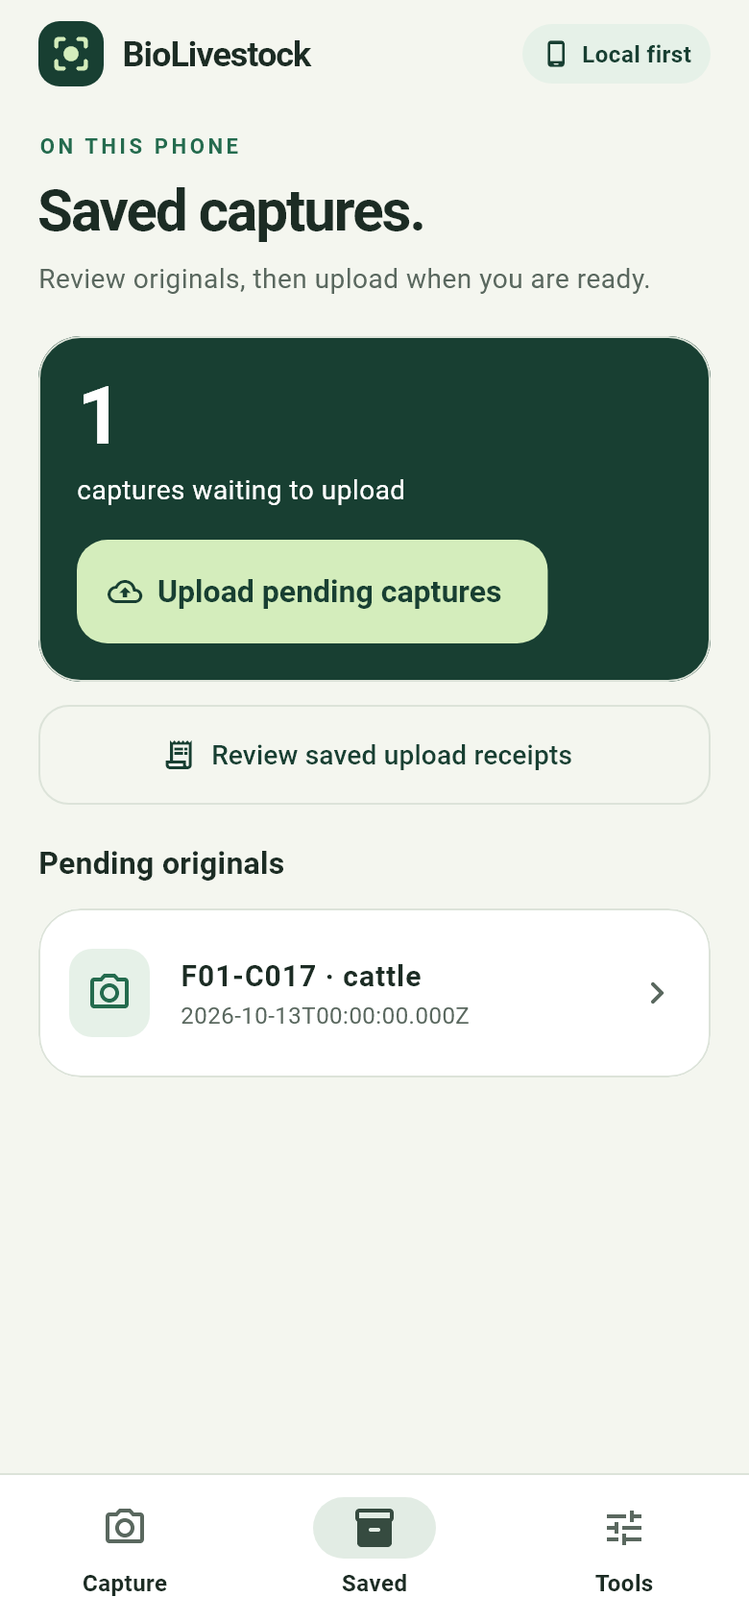
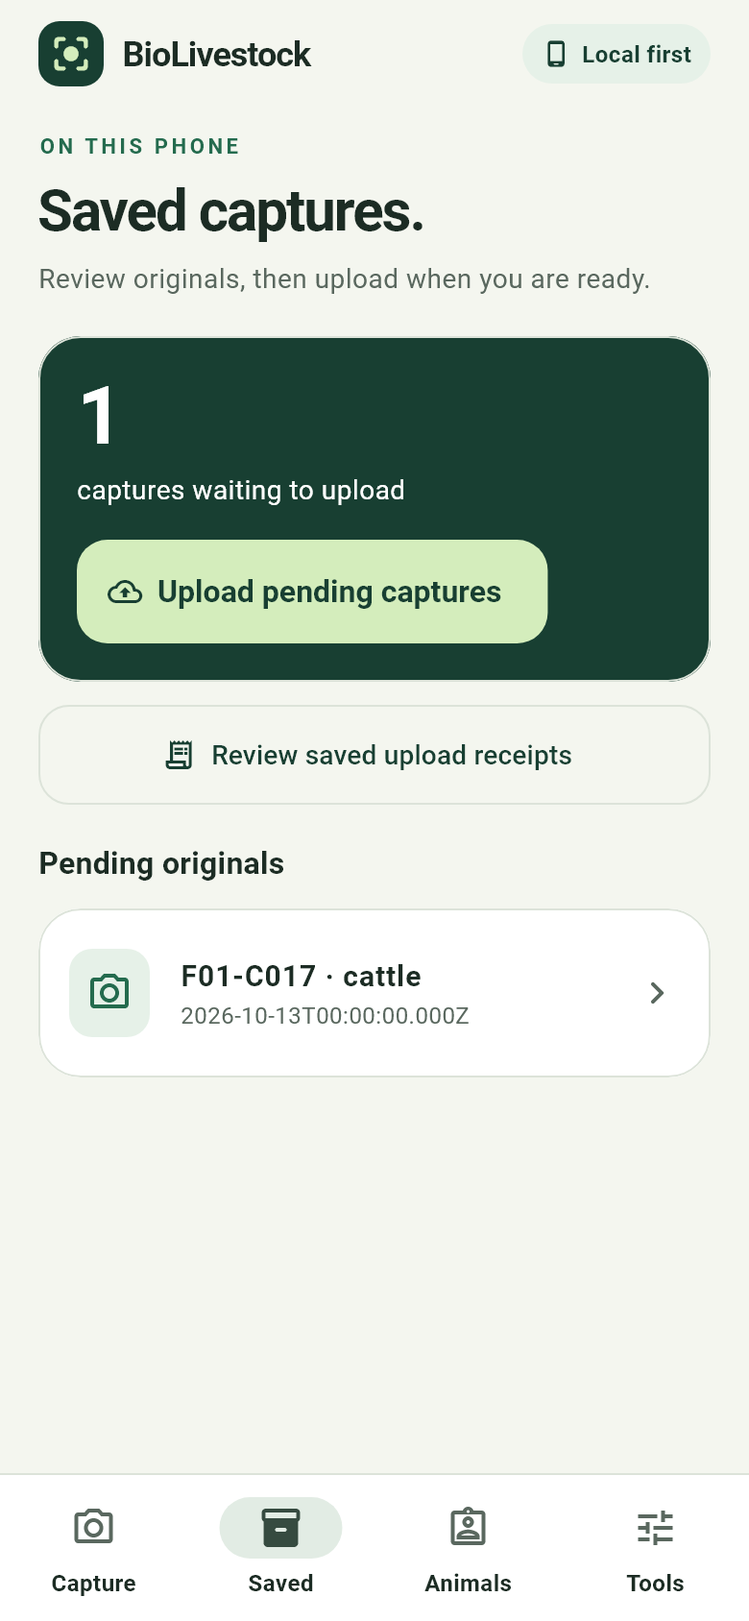
Document permanent IDs, field ownership reports and verified registry recovery

Changed region(s): [[0.2769, 0.9242, 0.6769, 0.9858], [0.0615, 0.9242, 0.2154, 0.9858], [0.8, 0.9242, 0.9231, 0.9858]]

diff --git a/docs/ANIMAL_REGISTRY.md b/docs/ANIMAL_REGISTRY.md
@@ -1,0 +1,128 @@
+# Permanent cattle IDs, owners and terminal reports
+
+## Field workflow
+
+1. Connect to the **same canonical backend**. In Capture choose **New animal ID**,
+   or Animals → **Register new animal**. Enter a stable owner reference
+   (e.g. `OWNER-001`) and name. Register each physical animal only once.
+2. The server allocates `M00000001`, `M00000002`, etc. Write the complete number
+   on its tag and ledger, then press **Use this ID**. The display uses tabular
+   digits for readability. These are internal IDs, not official government tags.
+3. Every later photo/session/device uses that same animal ID. Keep the permanent
+   external ear tag in the ledger too. Existing registered IDs still capture
+   offline; issuing a new number requires the backend. Never invent an M-number.
+4. Animals → look up the tag/ledger ID → **Change owner**. Enter the new owner's
+   reference/name and reason. ID, photos and previous owners remain unchanged.
+   A name edit for the same reference is not an ownership transfer.
+5. **Record death** for a deceased animal; **Record slaughter** for slaughter,
+   with a stable facility ID (e.g. `ABATTOIR-001`) and report notes. Confirm only
+   after checking the animal/tag. These terminal states remove it from the active
+   list. **Include archived animals** or direct lookup shows retained history.
+   There is no hard-delete or reactivation button, and its number is not reused.
+6. At an abattoir choose **Check animal / slaughter record**. Review lifecycle,
+   owner, reporting operator, reported/received time and facility. “Slaughter
+   report on file” means an authenticated report exists. It does **not** establish
+   that this physical animal matches the ID or that slaughter independently occurred.
+
+Owner references identify a person/farm in the operator's ledger; this MVP does
+not provide owner accounts, owner consent signatures or legal ownership verification.
+Only the original registering operator or an administrator can change the record.
+All authenticated operators can look up registry records; credentials are for trusted
+field staff, not publicly distributed. Financial `open`/`insured`/`collateral`
+status remains separate; death/slaughter does not automatically settle a loan/policy.
+
+## Reliability and compatibility
+
+- Per-species `numbering` lives in YAML: cattle `M`, eight digits; sheep `S`, eight
+  digits, **disabled**. No sheep model/crop logic was added. Freeze prefix/width
+  after real numbering starts. Numbers may have gaps; never reset the counter.
+- PostgreSQL allocates numbers atomically. Global numbered-ID uniqueness and
+  forward-only counter/retained-profile triggers guard against reuse. This guarantee
+  is for **one authoritative database**, not independently writable installations.
+  Never issue official numbers from a test/restore clone. Restoring stale data
+  after later IDs were issued requires reconciliation before writes resume.
+- Every mutation requires `Idempotency-Key`; the server stores its immutable
+  response. Same actor/key/body replays; a changed body/operation returns 409.
+  Mobile saves the original request before sending. Timeout/restart retries the
+  same key, timestamp, GPS and body; an issued ID stays visible until acknowledged.
+  Known 404/409/422 rejections stay in the journal and require correction/review.
+  Corrupt journals block new mutations and remain available for backup.
+- Additive Alembic `0005` creates `animal_number_counters`, `animal_profiles` and
+  `registry_receipts`. Legacy IDs/photos/financial fields are preserved, never
+  automatically renamed. Legacy records without a profile appear active with
+  owner “Not recorded”; the registering operator/admin may record their owner.
+  Numeric managed prefixes are reserved; uploads cannot create an unissued M-ID.
+- Archives retain photos and immutable actor/server time/reported time/GPS audit
+  events. GPS is nullable and operator/device supplied, not independent location
+  proof. Delayed uploads to an existing archived ID retain evidence without
+  reactivating it; the normal registry capture selector offers active records only.
+- Optional API `capture_id` links a matching, permitted scan and stored image hash
+  to a terminal report. The mobile report form does not yet attach that UUID;
+  it records facility/notes/time/GPS. No image-based slaughter verdict is produced.
+- Phone ZIP backups include registry requests, acknowledgements and partial writes;
+  protect them because owner names and report metadata are sensitive. Save a copy
+  outside the app. Desktop recovery preserves evidence; it does not auto-replay
+  mutations or import them into another authority.
+
+Unique numbers prevent number collisions, **not** two registrations of the same
+physical animal under different numbers. Continue the independent tag/roster checks.
+Biometric duplicate/identity validation still needs the real labeled dataset.
+
+## API and local rollout
+
+Bearer authentication is required for every route below. Mutating routes additionally
+require `Idempotency-Key` (16–128 ASCII letters/digits/underscores/hyphens).
+
+| Route under `/api/v1/registry` | Purpose |
+| --- | --- |
+| `POST /animals` | `{species, owner:{owner_id,name}}` → 201 permanent ID |
+| `GET /animals?species=cattle&lifecycle=active&limit=50&offset=0` | Bounded active list; also `deceased`, `slaughtered`, `all` |
+| `GET /animals/cattle/{id}` | Current projection, owner, lifecycle and terminal record |
+| `POST /animals/cattle/{id}/owner` | New owner, expected_version, timezone-aware observed_at, nullable GPS, reason |
+| `POST /animals/cattle/{id}/retirement` | Same observation fields + lifecycle; facility_id required for slaughter; optional capture_id |
+| `GET /animals/cattle/{id}/history?limit=50&offset=0` | Immutable events; mobile displays latest 50; API supports paging |
+| `GET /animals/cattle/{id}/slaughter-check` | Registry report only; biometric/independent verification explicitly false |
+
+Before using new numbering, back up the existing backend using
+[collection recovery instructions](COLLECTION_RELIABILITY.md). From `backend/`,
+`docker compose up --build -d` applies migration 0005 on startup. This task tested
+only the isolated stack; it did not deploy to the normal collection stack.
+Rebuild the app with the existing README backend/operator defines.
+
+## Verification — 2026-10-13
+
+171 backend/tooling, 48 research and 84 Flutter host tests passed; Ruff and Flutter
+analysis clean. Journal tests cover restart/lost responses, changed payload/scopes,
+rejection/corruption, mismatched acknowledgements, failed receipt writes and backup
+retention. UI tests cover ID acknowledgement/recovery, owner/slaughter validation,
+death retry/conflict cancellation, archives and 200% text on a narrow screen.
+Capture integration preserves an already saved original's ID. Real-font mock
+renders were visually inspected. Final Android debug APK built in 26.1 seconds,
[1 lines of base64/hex data omitted]
+no operator API token configured. Four widget cases also passed after final
+financial-label clarification. Both isolated Docker services are stopped; data retained.
+
+| Animal list | Issued ID | Archived report |
+| --- | --- | --- |
+| ![Synthetic registry](design/registry-list.png) | ![Permanent ID acknowledgement](design/registry-issued.png) | ![Synthetic report, not independent proof](design/registry-slaughter.png) |
+
+The isolated `biolivestock-reliability` PostgreSQL stack on 18001 passed eight
+parallel unique allocations, four concurrent replays returning one ID, a two-way
+owner-version race (200/409), terminal replay, retained archived owner/ID, trigger
+guards, authentication and disabled-sheep checks. A numbered synthetic JPEG passed
+QC and persisted as `pending_model`; its stored hash is attached to the terminal
+report. Source/config hashes matched the running container.
+
+Backup `data/backups/registry-20261013` restored to a new database
+`biolivestock_restore_registry_20261013` and `data/restores/registry-20261013`.
+All counter/profile/receipt/animal/audit rows matched the source, not just counts.
+The clone includes 20 profiles, 24 registry receipts, 27 animals, 35 audit events,
+nine captures and eight upload receipts; reconciliation is healthy. Two runs left
+synthetic fixtures: the first probe stopped on a correctly rejected SQL trigger
+because its harness initially treated that expected rejection as a failure.
+No real animal data was modified. Evidence is retained under
+`data/reliability/evidence/registry*.json` and ignored by Git.
+
+Physical Android/iOS operation remains unverified until a repaired/replacement
+phone is available. All animal identity, model, slaughter authenticity and
+real-world accuracy claims remain gated on real reviewed data.

diff --git a/PROGRESS.md b/PROGRESS.md
@@ -4,7 +4,7 @@ Last live repository inspection: 2026-10-13, Asia/Tashkent. Project root: D:\Cod
 
 ## Current stop point
 
-**Permanent numbering/ownership/lifecycle complete (2026-10-13, latest request).** New cattle register once with server-issued M00000001-style IDs, readable tabular digits and owner reference/name. Mobile now has Capture/Saved/Animals/Tools; Animals supports owner transfers, death/slaughter reports, active/archive lists and abattoir ID/report/history lookup. Clarification: Sardorbek meant death, not sale; no sale terminal state. Death/slaughter archives rather than physically deletes; IDs, owners at reporting, scans and immutable history remain. Additive migration 0005 preserves legacy IDs/data. New IDs require one canonical backend; existing registered IDs still collect offline. Entry clean at 9c745b1. Backend local milestone b9a34a4; mobile/docs milestone follows. No push or normal-stack deployment.
+**Permanent numbering/ownership/lifecycle complete (2026-10-13, latest request).** New cattle register once with server-issued M00000001-style IDs, readable tabular digits and owner reference/name. Mobile now has Capture/Saved/Animals/Tools; Animals supports owner transfers, death/slaughter reports, active/archive lists and abattoir ID/report/history lookup. Clarification: Sardorbek meant death, not sale; no sale terminal state. Death/slaughter archives rather than physically deletes; IDs, owners at reporting, scans and immutable history remain. Additive migration 0005 preserves legacy IDs/data. New IDs require one canonical backend; existing registered IDs still collect offline. Entry clean at 9c745b1. Local code milestones: b9a34a4 (backend) and 9f577a4 (mobile/recovery); final documentation commit contains this update. No push or normal-stack deployment.
 
 **Key decisions & config:** cattle numbering M/eight digits in species_configs/cattle.yaml, sheep S/eight digits present but disabled. No sheep models/branches added. Never reset counters/change live numbering format or issue real IDs from independently writable test/restore clones. Stale backup restores after later issued IDs need reconciliation before writes. Financial open/insured/collateral status remains separate (also labeled Financial in UI); death/slaughter does not automatically settle it. Original registrar/admin controls owner/terminal changes; owner references are ledger identities, not accounts, consent/legal ownership proof. Server and mobile retain replay keys/immutable payloads; acknowledgement loss/restart cannot silently allocate another ID. Pending/corrupt/rejected journals remain backed up; new number remains visible until acknowledged. Full owner/time/GPS/report metadata is sensitive; protect backup copies. New numbering prevents collisions, not multiple IDs for the same physical animal; independent tag/session checks remain necessary.
 
@@ -17,6 +17,43 @@ Last live repository inspection: 2026-10-13, Asia/Tashkent. Project root: D:\Cod
 **Mobile directly verified:** full 84 Flutter host tests passed, plus four final real-font widget cases after clarifying Financial status; analyzer clean. Nine new journal cases cover lost reply/restart, explicit ID acknowledgement, receipt-write failure, changed payload, backend/operator scopes, known rejection, malformed acknowledgement, corruption and backup inclusion. Two HTTP contract tests and four registry widget scenarios cover issuance/recovery, owner/slaughter validation, death retry and stale-version cancellation, archived controls and 320x720 at 200% text. Integrated Capture/Animals navigation cannot relabel an open original and returns to it with visible feedback. Actual native widgets rendered with SDK fonts and mock boundaries, visually inspected; previews docs/design/registry-*.png plus refreshed capture/saved/tools. New ID and registry dialogs have no gallery/photo source substitution. Full totals: 171 backend + 48 research + 84 Flutter = 303 distinct tests. Backend suite has dependency deprecation and inaccessible pytest-cache warnings only; no failed tests. Final Android debug APK built in 26.1 seconds (preceding build 45.2 seconds), SHA-256 998d45179dada676d1dc1eca2313a38ae25cc108654899fb0ee58e25e488191e. No API token configured in this build. SDK C:\src\flutter (3.47.5), kotlin.incremental=false unchanged.
 
 **Exact next action / external blockers:** before new real numbering, back up the normal backend, review then rebuild from backend/ with docker compose up --build -d (startup applies 0005). Rebuild/run the operator-configured app using README. On a repaired/replacement phone verify native camera/GPS/keyboard and registry creation/acknowledgement, offline restart/retry, owner changes, death/slaughter archive lookup and ZIP export/share on synthetic test records. Real phone remains unavailable/unverified; this is external, not a known code blocker. Real cattle dataset/checkpoint/calibration still gates biometric matching, actual slaughter/identity authenticity, liveness and weight accuracy. Guide now maps server IDs to separate farm cohort slots; preserve all existing labels. No routine architectural question is pending. Requested code work finished; no automatic push or new model work.
+
+
+## Git evidence — registry code milestones, before final documentation commit
+
+Live git inspection: 2026-10-13. HEAD 9f577a4; only the requested docs/previews remain uncommitted before this final documentation commit. No tracked secrets, datasets, weights or builds. Cached origin/main remote-only/local-only counts 0/10; no fresh remote fetch or push in this task. The final documentation commit follows this snapshot; inspect live status/log next session.
+
+Real git log --oneline -20 output:
+
+```text
+9f577a4 Add mobile animal registry, durable ID acknowledgement and archive workflows
+b9a34a4 Add permanent species-configured animal numbers and audited ownership lifecycle
+9c745b1 Document mobile design references, visual previews and verification
+7b86d1c Redesign field capture, saved originals and backup tools for mobile
+5c16b0c Refresh persistent progress with final runtime and git evidence
+1a511e4 Document verified collection enhancements and field recovery limits
+b6c4e0b Pin tested backend containers, CPU dependencies and Flutter SDK
+001b9a2 Respect Windows path casing when exporting phone evidence
+183341b Export verified phone evidence and scale restart-safe capture queues
+fff4799 Reject exact decoded-pixel duplicates in reviewed research datasets
+eaaf857 Clarify published repair milestone status
+ad5f754 Record authorized GitHub publication of audit repairs
+b5da129 Record verified audit repairs and PostgreSQL recovery proof
+0ba8dd7 Measure mobile exposure before resizing and share clipping regression fixtures
+de5e76d Isolate corrupt offline journals and validate capture labels before saving
+8c722c2 Reject invalid contour geometry, truncated research pixels and unsafe UTC times
+4ac39d8 Verify every restored image and research file against backup hashes
+d3704e5 Preserve capture evidence across uncertain database commits
+27c1e85 Document code audit findings and reproducible repair plan
+d99c2f1 Persist camera captures offline with restart-safe upload retries
+```
+
+Real git remote -v output:
+
+```text
+origin	https://github.com/sabdur4hmonov/animal.id.creator.git (fetch)
+origin	https://github.com/sabdur4hmonov/animal.id.creator.git (push)
+```
 
 ## Previous mobile design milestone
 

diff --git a/docs/DATA_COLLECTION_GUIDE.md b/docs/DATA_COLLECTION_GUIDE.md
@@ -1,6 +1,6 @@
 # Farm checklist — cattle identity pilot
 
-**Sardorbek · current code/config: 2026-10-08.** Collect cattle only. No muzzle checkpoint exists: accepted originals are `pending_model`, not verified nose crops. This protocol's **100-animal floor** supports a first pilot; it cannot establish rare-error reliability. Required sample size depends on the error target ([NIST](https://www.nist.gov/publications/using-chebyshevs-inequality-determine-sample-size-biometric-evaluation-fingerprint-data)).
+**Sardorbek · current code/config: 2026-10-13.** Collect cattle only. No muzzle checkpoint exists: accepted originals are `pending_model`, not verified nose crops. This protocol's **100-animal floor** supports a first pilot; it cannot establish rare-error reliability. Required sample size depends on the error target ([NIST](https://www.nist.gov/publications/using-chebyshevs-inequality-determine-sample-size-biometric-evaluation-fingerprint-data)).
 
 ## 1. Before travelling
 
@@ -11,9 +11,15 @@
 
 ## 2. Fixed cohort and capture recipe
 
-Use `F01-C001`…`F01-C050` and `F02-C001`…`F02-C050` (ASCII, no spaces). Assign numbers from the shuffled roster, not by breed/age.
+For new cattle, use the canonical backend's **Register new animal** once per animal,
+record its issued `M00000001` style ID on the tag/ledger and press **Use this ID**.
+Never invent or reissue an M-number. Keep farm cohort labels `F01-C001`…`F01-C050`
+and `F02-C001`…`F02-C050` in a separate `cohort_slot` ledger column; the table below
+uses those slots, not allocated number ranges. Shuffle slots independently of
+breed/age, then map each slot to its permanent server `animal_id`. Existing legacy
+IDs stay unchanged. Do not create another ID for a later visit or owner change.
 
-| IDs at **each** farm | Research split | Purpose |
+| Cohort slots at **each** farm | Research split | Purpose |
 |---|---|---|
 | C001–C020 | train | 40 animals total; never validation/test |
 | C021–C030 | validation | 20 enrolled animals total |
@@ -30,7 +36,7 @@ Use `F01-C001`…`F01-C050` and `F02-C001`…`F02-C050` (ASCII, no spaces). Assi
 
 Session ID = `F01-YYYYMMDD-V1` (then actual dates with V2/V3); F02 uses its own prefix. Each is a separate visit/day. Lighting changes and consecutive shots **do not** create independent sessions.
 
-- [ ] Before **each** visit's muzzle shots, read the permanent tag with the handler. Use the phone's ordinary camera for tag + side-view references; do not upload/count these as muzzle captures. In `roster.csv` record `animal_id, permanent_tag, identity_verified_by, verification_time, reference_filename`; V1/V2/V3 must agree. Conflicting/unreadable/replaced tag → `identity_uncertain`; exclude until independently resolved.
+- [ ] Before **each** visit's muzzle shots, read the permanent tag with the handler. Use the phone's ordinary camera for tag + side-view references; do not upload/count these as muzzle captures. In `roster.csv` record `animal_id, cohort_slot, permanent_tag, identity_verified_by, verification_time, reference_filename`; V1/V2/V3 must agree. Conflicting/unreadable/replaced tag → `identity_uncertain`; exclude until independently resolved.
 - [ ] Per animal: breed, sex, birth date/estimated age, coat/markings, health/nose damage/soiling, owner/farm code and permission reference. Record unknown rather than guessing. If available, add actual scale kg/time/device and tape girth/straight length in cm; muzzle photos alone cannot establish weight.
 - [ ] In `scans.csv`, one row/photo: `animal_id, species=cattle, session_id, farm_id, camera_id, shot_no, view(front/left15/right15), distance_cm, timestamp_with_timezone, operator_id, gps_latitude, gps_longitude, lighting, nose_condition, request_key, capture_uuid, server_file_path, upload_result`. Keep UUID/path blank until upload; keep the request key unchanged. Camera e.g. `PHONE-01`; operator matches its key. Time: `2026-10-08T09:15:00+05:00`; blank GPS means unavailable, never invented `0,0`.
 
@@ -38,16 +44,16 @@ The API accepts animal ID, species, timezone-aware timestamp, authenticated oper
 
 ```text
 Server originals (leave names/files unchanged):
-data/cattle/F01-C021/<UTC-date>/<capture-uuid>_original.jpg
+data/cattle/M00000021/<UTC-date>/<capture-uuid>_original.jpg
 
 Separate research copies after manual nose review/cropping:
-data/research/crops/cattle/F01-C021/F01-20261008-V1/01-front.jpg
+data/research/crops/cattle/M00000021/F01-20261008-V1/01-front.jpg
 
 Ledger + identity references (outside crops/):
 data/research/field/roster.csv
 data/research/field/scans.csv
-data/research/field/references/F01-C021/F01-20261008-V1/tag.jpg
-data/research/field/references/F01-C021/F01-20261008-V1/body.jpg
+data/research/field/references/M00000021/F01-20261008-V1/tag.jpg
+data/research/field/references/M00000021/F01-20261008-V1/body.jpg
 ```
 
 Research shot names: `01-front.jpg`, `02-front.jpg`, `03-left15.jpg`, `04-left15.jpg`, `05-right15.jpg`, `06-right15.jpg` (the animal's left/right). UTC date may differ from local date; session comes from the ledger. Never rename server evidence. Back up ledger, originals and database before leaving; verify 6 saved UUIDs per animal/visit.
@@ -68,4 +74,4 @@ Research shot names: `01-front.jpg`, `02-front.jpg`, `03-left15.jpg`, `04-left15
 
 ## 5. Sheep — later, not this visit
 
-- [ ] Keep sheep disabled. Later use separate IDs (`F01-S001`), `species=sheep`, the same visit/ledger scheme and separate manifests. Smaller/wool-obscured muzzles need fresh framing/QC calibration and a sheep checkpoint before enabling collection; do not assume cattle distance/thresholds/formulas work. Record breed, age and wool/nose obstruction; retain identity proof across visits. No sheep model work is part of this protocol.
+- [ ] Keep sheep disabled. Later use server-issued S-prefix IDs (cohort slots e.g. `F01-S001`), `species=sheep`, the same visit/ledger scheme and separate manifests. Smaller/wool-obscured muzzles need fresh framing/QC calibration and a sheep checkpoint before enabling collection; do not assume cattle distance/thresholds/formulas work. Record breed, age and wool/nose obstruction; retain identity proof across visits. No sheep model work is part of this protocol.

diff --git a/docs/MOBILE_DESIGN.md b/docs/MOBILE_DESIGN.md
@@ -1,6 +1,12 @@
 # Field capture design — 2026-10-13
 
-The native Flutter app now separates **Capture**, **Saved** and **Tools**. The
+**Latest registry extension:** 84 full Flutter host tests passed; analyzer clean.
[1 lines of base64/hex data omitted]
+Actual widget previews below are refreshed for four-tab navigation. Permanent-ID
+dialogs and report previews: [ANIMAL_REGISTRY.md](ANIMAL_REGISTRY.md). These use
+mock records and SDK fonts; physical-device operation remains unverified.
+
+The native Flutter app now separates **Capture**, **Saved**, **Animals** and **Tools**. The
 previous screen put queue management and backup controls between the form and
 camera. The new capture screen puts the camera first and keeps the primary action
 above navigation, with animal details, readable QC feedback and preserved originals.
@@ -34,6 +40,7 @@ in `mobile/lib/app_design.dart`; capture logic remains species/config driven.
 | Capture | Visible preview, visual positioning guide, animal ID/species, configured operator, fixed capture action. Invalid input is brought into view before taking a photo. |
 | Review | Full original preview, local QC result, explicit GPS absence, expandable measurements/timestamp/request key. Failed QC offers retake; accepted captures offer upload or next capture. |
 | Saved | Pending capture count, explicit manual batch upload, original review, existing 50-item pagination, receipt review. Counts are captures, not verified animal identities. |
+| Animals | Server-issued permanent M IDs with readable tabular digits; owner transfers, death/slaughter archives, paginated records and report/history lookup. Financial status is explicitly separate. |
 | Receipts | Readable acknowledgement cards, selectable UUID/request/path, existing pagination and close action. |
 | Tools | Verified ZIP backup/share, scope/retention explanation, cached-rule status, configured operator/backend, refresh and field checklist. |
 | Errors | Separate error icon/color plus text; uploads/backup failures retain local evidence. Permission failure offers retry. |
@@ -41,8 +48,8 @@ in `mobile/lib/app_design.dart`; capture logic remains species/config driven.
 The guide is a positioning aid, not a detected muzzle, crop, liveness result or
 identity confidence. A dark camera caption gradient keeps guidance readable
 against bright frames. There is no fake online indicator: cached-rule/local-save
-labels describe known state. API/auth/QC thresholds, immutable journals, upload
-receipts, species enablement and storage schema remain unchanged. Sheep stays
+labels describe known state. Registry adds separate mutation journals and additive
+schema 0005; the existing capture/auth/QC and upload-receipt contract is preserved. Sheep stays
 disabled; no checkpoint means server uploads still use `pending_model`.
 
 Capture/tools scroll as bounded forms so validation remains mounted even at large
@@ -75,7 +82,7 @@ touch-target guidance. Physical Android/iOS rendering, camera texture/orientatio
 real keyboard/share sheet, sunlight and gloved operation still need a device.
 English UI is retained; translation is a separate future product decision.
 
-**Verified:** 68 Flutter host tests passed; final analyzer reported no issues.
+**Earlier design milestone:** 68 Flutter host tests passed; final analyzer reported no issues.
 The small-phone check also confirms invalid Animal ID feedback is scrolled above
 the fixed action without taking a photo. Android touch-target guidance passed on
 Capture and Tools. Final debug APK built in 26.0 seconds, SHA-256

diff --git a/README.md b/README.md
@@ -7,6 +7,7 @@ Cattle data collection API: native camera capture, image quality feedback, optio
 Offline collection/retries and backup/restore commands: [COLLECTION_RELIABILITY.md](docs/COLLECTION_RELIABILITY.md).
 Phone ZIP recovery, queue benchmark and dependency pins: [collection improvements](docs/COLLECTION_IMPROVEMENTS_2026-10-13.md).
 Mobile screen design, visual previews and UI checks: [MOBILE_DESIGN.md](docs/MOBILE_DESIGN.md).
+Permanent M-number issuance, ownership transfers, death/slaughter archives and report lookup: [ANIMAL_REGISTRY.md](docs/ANIMAL_REGISTRY.md).
 
 Install Docker Desktop and start its Linux container engine. From PowerShell:
 
@@ -43,6 +44,14 @@ Phase 1 testing is done on a physical Android phone connected over USB (USB debu
 Enter the animal ID, position one muzzle fully within the frame, and tap Capture; the operator comes from the configured key. Camera permission and optional GPS are requested; missing GPS stays null. Local-QC-passing photos are saved to a durable phone queue before **Saved on this phone** appears. After one connection caches species settings, capture can continue offline. **Next capture (saved locally)** retains the image; restart recovers pending uploads. Reconnect and upload individually or use **Upload pending captures**. Stable request keys make retries safe even if a response was lost after persistence. Server QC/framing remains authoritative. **Review saved upload receipts** shows UUID/file-path mappings for the ledger. Originals/receipts are retained locally; do not clear app data/uninstall before upload and backup. See [collection reliability](docs/COLLECTION_RELIABILITY.md) for pre-trip testing and recovery.
 
 ## Models and species configuration
+
+For a new animal, connect once and choose **New animal ID** (or Animals →
+**Register new animal**), enter its owner and use the server-issued `M00000001`
+style number. Keep that number on the tag/ledger and use it for every photo and
+owner change. Existing legacy IDs remain valid; never invent an M-number.
+Animals offers owner transfers and death/slaughter reports, retained archives and
+abattoir record lookup. A recorded slaughter report is not physical/biometric proof.
+Back up before upgrading the backend; startup applies additive Alembic 0005.
 
 No trained cattle muzzle checkpoint was supplied. This repository therefore starts in useful collection mode: quality-approved originals are saved with `crop_status=pending_model` and `crop_path=null`. It does **not** pretend a center crop or a full cow box is a detected nose.
 

diff --git a/docs/VALIDATION.md b/docs/VALIDATION.md
@@ -1,5 +1,23 @@
 # Phase 1 validation
 
+## Permanent numbering, ownership and lifecycle registry (2026-10-13, latest)
+
+171 backend/tooling and 48 research tests passed; the full mobile suite passed
+84 tests with clean Flutter analysis. New cases cover allocation/replay,
+legacy-ID retention, owner permissions/versions, death/slaughter archives,
+actual migration guards, journal restart/lost reply/write failure/corruption,
+typed HTTP contracts, report dialogs and narrow/large-text rendering. Integrated
+Capture/Animals selection cannot relabel an open original.
+
+Isolated PostgreSQL verified eight concurrent unique allocations and four
+same-request replays, competing owner transfers (200/409), a numbered JPEG
+pending_model upload with persisted hash, terminal replay and database guards.
+Complete registry contents matched a new restore database; nine captures reconciled
+healthy. Details and evidence: [ANIMAL_REGISTRY.md](ANIMAL_REGISTRY.md).
+Test containers were stopped while retaining volumes, files, clones and evidence.
+No normal-stack deployment, sheep enablement or push. Real phone operation and
+physical-animal/slaughter/biometric identity remain unverified.
+
 ## Native mobile design refresh (2026-10-13, latest)
 
 68 Flutter host tests passed; final Flutter analyzer was clean. Capture/Saved/Tools,

diff --git a/docs/ARCHITECTURE.md b/docs/ARCHITECTURE.md
@@ -20,6 +20,17 @@ References: [Flutter camera plugin](https://pub.dev/packages/camera), [FastAPI m
 
 ## Offline research extension
 
+Permanent numbering/ownership/lifecycle lives in the shared registry service and
+additive Alembic 0005 tables. Species YAML includes a distinct numbering prefix
+and width; cattle M is active, sheep S remains disabled. Atomic counters allocate
+IDs in the canonical PostgreSQL database; immutable idempotency receipts and audit
+events retain ownership/terminal reports, with a mutable current profile for lists.
+Death/slaughter archives retain IDs/scans and never reset numbering. Legacy IDs
+are preserved. Mobile journals uncertain mutations before HTTP and requires an
+issued-ID acknowledgement before another number. Financial status remains separate.
+Lookup states that slaughter/identity are operator reports without independent
+physical/biometric verification. See [ANIMAL_REGISTRY.md](ANIMAL_REGISTRY.md).
+
 Audit repairs (2026-10-13): both server and mobile exposure histograms use oriented original
 pixels; only blur analysis resizes. The typed mobile journal isolates per-file corruption and
 validates labels before enqueue. Server file fsync precedes COMMIT; attempted/uncertain COMMIT

diff --git a/docs/SECURITY_AND_REGISTRY.md b/docs/SECURITY_AND_REGISTRY.md
@@ -2,6 +2,12 @@
 
 ## Safe upload retries
 
+Permanent server-issued M IDs, owner reports and death/slaughter archives are now
+available under `/api/v1/registry`; see [ANIMAL_REGISTRY.md](ANIMAL_REGISTRY.md).
+Only the registering operator/admin mutates those records. Managed numeric IDs
+must be issued first; legacy nonnumeric registration/upload behavior remains.
+Recorded ownership is an operator assertion, not legal verification or owner accounts.
+
 Send `Idempotency-Key` (16–128 ASCII letters/digits/underscores/hyphens) on `POST /api/v1/captures`.
 Generate it once per capture and retain the exact image bytes and capture metadata for retries.
 Keys are scoped to the authenticated operator ID, including across key rotation. The same key/payload
